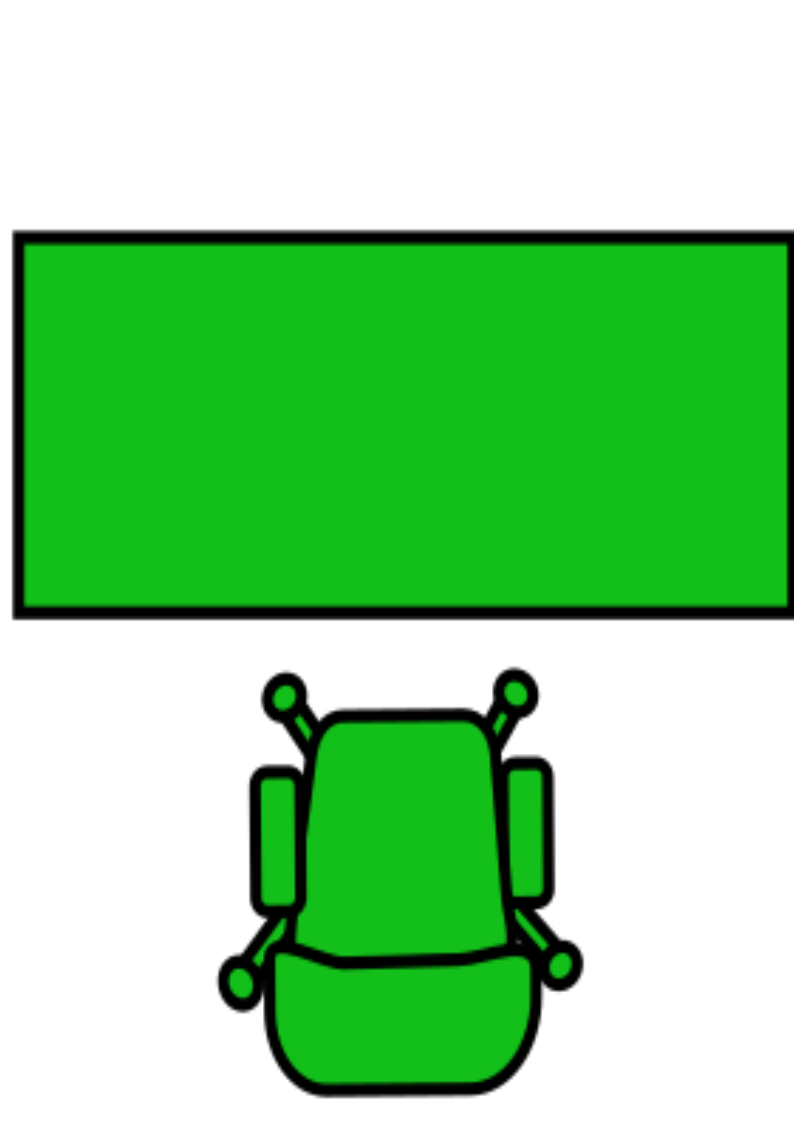
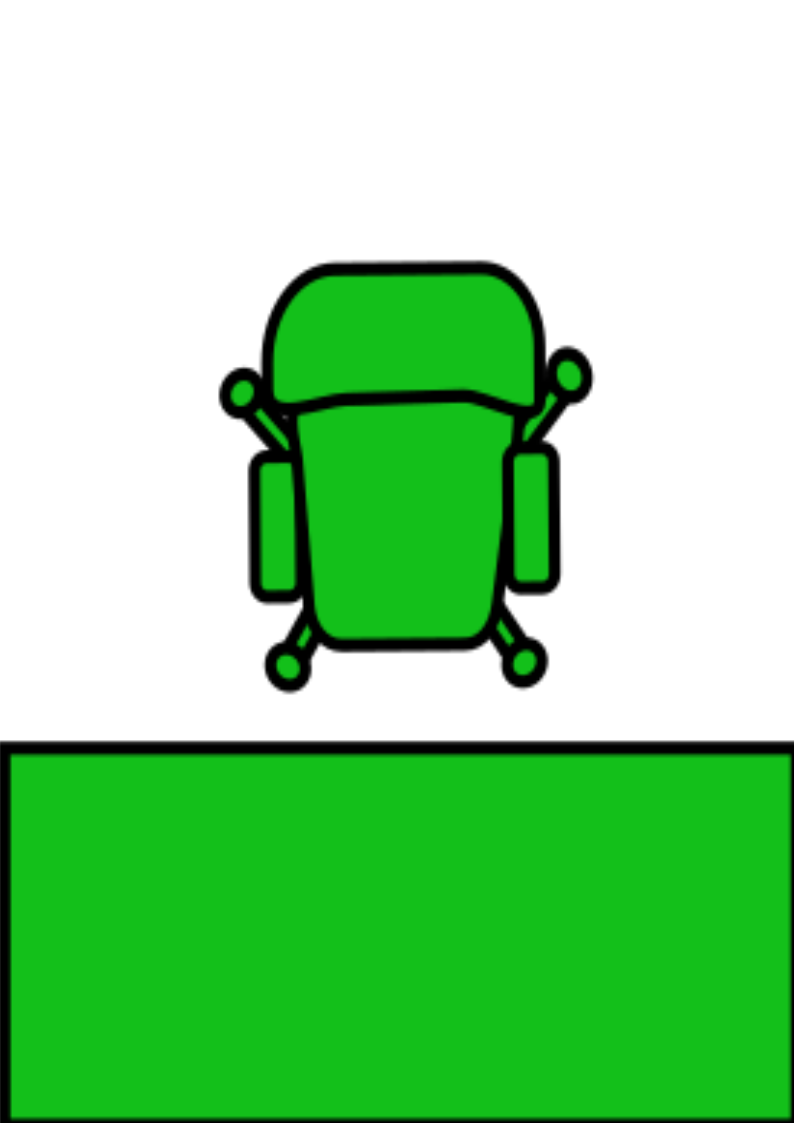
krzesełka sie obracają
ciekawe czy odczytasz, przez ciebie nie spie dzieki tobie zasypiam, mamy wspolne zdjecia zapisane na kliszach, mysle o niej czesciej ona o narkotyckach. MIJAMY SIE NA MIESCIE, POWIERZE ROBI SIE CIEZKIE, chcialbym jej bardziej nie cierpiec, nie podejde bo czekam aż mi przejdzie. Ona jest bez serca, ma je na butach,

diff --git a/HaveASeat/src/app/mapa/mapa.component.ts b/HaveASeat/src/app/mapa/mapa.component.ts
@@ -23,12 +23,14 @@ export class MapaComponent implements OnInit {
   ngOnInit(): void {
     forkJoin({
       rooms: this.mapaService.getRooms(),
-      desks: this.mapaService.getDesks()
+      //desks: this.mapaService.getDesks()
     }).subscribe(
-      ({ rooms, desks }) => {
+      ({ rooms }) => {
         this.rooms = rooms;
         console.log('Rooms:', this.rooms);
         this.markDeskCells();
+        
+        
       },
       (error: any) => {
         console.error('Error fetching data:', error);
@@ -41,8 +43,9 @@ export class MapaComponent implements OnInit {
     console.log("cell:", cell.positionX, cell.positionY);
     return desk.positionX === cell.positionX && desk.positionY === cell.positionY;
   }
-  getRotationClass(rotation: number): string {
-    switch (rotation) {
+  getRotationClass(chairPosition: number): string  {
+    
+    switch (chairPosition) {
       case 1:
         console.log("prawo")
         return 'rotate-right';
@@ -65,8 +68,13 @@ export class MapaComponent implements OnInit {
           cell.isDesk = room.desks.some(desk => this.check(desk, cell));
           //console.log("uno") 
           console.log(cell.positionX, cell.positionY);
+          
           if (cell.isDesk) {
             console.log(`Desk found at position (${cell.positionX}, ${cell.positionY})`);
+            const desk = room.desks.find(desk =>this.check(desk, cell));
+            if (desk) {
+              cell.rotationClass = this.getRotationClass(desk.chairPosition);
+            }
           } else {
             console.log('Rooms or desks data not available yet.');
           }

diff --git a/HaveASeat/src/app/mapa/mapa.component.html b/HaveASeat/src/app/mapa/mapa.component.html
@@ -1,22 +1,20 @@
 <div class="room" [style.gridTemplateColumns]="'repeat(' + roomWidth + ', 50px)'">
   <ng-container *ngFor="let room of rooms; let rowIndex = index">
     <ng-container *ngFor="let cell of room.cells; let colIndex = index">
-        <div 
-    [ngStyle]="{
-      gridRowStart: cell.positionY,
-      gridColumnStart: cell.positionX,
-      borderStyle: getBorder(room.id, cell.positionY, cell.positionX)
-    }"
-    [ngClass]="{'desk-cell': cell.isDesk}"
-    [ngClass]="{
-      'desk-cell': cell.isDesk,
-      'rotate-right': cell.rotationClass === 'rotate-right',
-      'rotate-bottom': cell.rotationClass === 'rotate-bottom',
-      'rotate-left': cell.rotationClass === 'rotate-left'
-    }"
-    class="place">
-  </div>
-
+      <div 
+        [ngStyle]="{
+          gridRowStart: cell.positionY,
+          gridColumnStart: cell.positionX,
+          borderStyle: getBorder(room.id, cell.positionY, cell.positionX)
+        }"
+        [ngClass]="{
+          'desk-cell': cell.isDesk,
+          'rotate-right': cell.rotationClass === 'rotate-right',
+          'rotate-bottom': cell.rotationClass === 'rotate-bottom',
+          'rotate-left': cell.rotationClass === 'rotate-left'
+        }"
+        class="place">
+      </div>
     </ng-container>
   </ng-container>
 </div>

diff --git a/HaveASeat/src/app/mapa/mapa.component.css b/HaveASeat/src/app/mapa/mapa.component.css
@@ -21,13 +21,21 @@
   background: rgb(185, 175, 175);
 }
 .desk-cell {
+  position: relative;
+  overflow: hidden;
+  
+
+}
+.desk-cell::before{
   background-image: url('/assets/images/siedzeniezielonegora.png');
   background-size: 100% 100%;
   height: 100%; 
   width: 100%;
   background-repeat: no-repeat;
   background-position: center top;
-
+  content: "";
+  position: absolute;
+  z-index: 10;
 }
 .desk-cell:hover{
   background-image: url('/assets/images/siedzeniezielonegora.png');
@@ -38,12 +46,14 @@
   background-position: center top;
   background-color: greenyellow;
 }
-.chair.rotate-right {
+.rotate-right {
   transform: rotate(90deg);
 }
-.chair.rotate-bottom {
-  transform: rotate(180deg);
+
+.rotate-bottom {
+  transform: rotate(-180deg);
 }
-.chair.rotate-left {
+.rotate-left {
   transform: rotate(-90deg);
 }
+

diff --git a/HaveASeat/src/app/mapa.service.ts b/HaveASeat/src/app/mapa.service.ts
@@ -7,7 +7,7 @@ import { Observable } from 'rxjs';
 })
 export class MapaService {
 
-  private apiUrl = ' https://run.mocky.io/v3/bea00508-4098-443a-a4d3-a8072669a86e';
+  private apiUrl = 'https://run.mocky.io/v3/7fbcc4df-6ade-4962-ab97-cde6e742a268';
   //private DeskApiUrl = 'https://run.mocky.io/v3/457acbb4-70a7-4b7c-82e0-534a259aa5a9';
 
   mapa :Room[] = []

diff --git a/HaveASeat/src/app/app.component.html b/HaveASeat/src/app/app.component.html
@@ -1,3 +1,3 @@
 <app-header ></app-header>
 <app-mapa></app-mapa>
-<app-footer></app-footer>
+<!-- <app-footer></app-footer> -->
